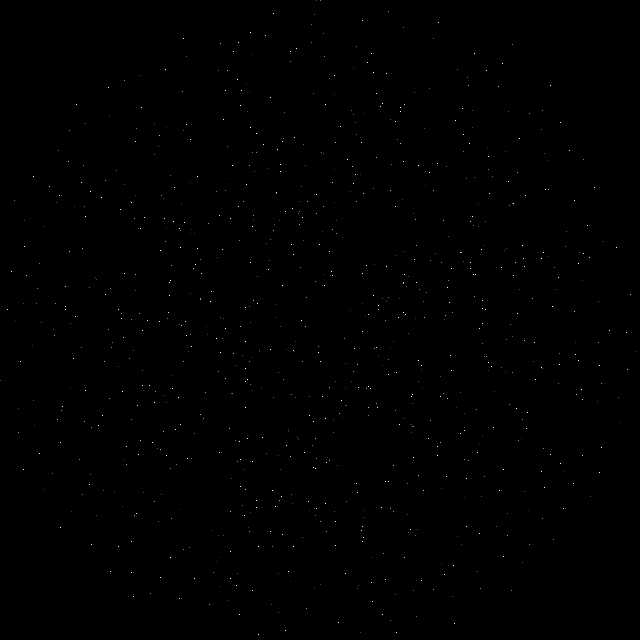
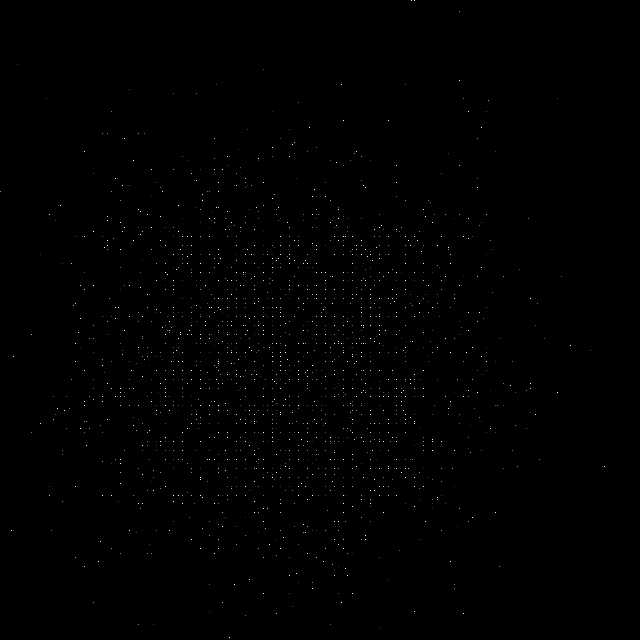
0085 - /Users/whittemore/.nvm/versions/node/v4.2.2/bin/node /index.js

diff --git a/sketches/0085/index.js b/sketches/0085/index.js
@@ -19,7 +19,7 @@ co(function*(){
 
 	var theGraph = ngraph();
 
-	var BLOCK_SIZE = 5;
+	var BLOCK_SIZE = 2;
 
 	console.log('adding images to graph');
 	var count = 0;
@@ -85,10 +85,10 @@ co(function*(){
 
 	console.log('doing some physics');
 	var layout = forcelayout(theGraph);
-	for (var frame = 0; frame < 5; frame++) {
-		console.log('frame', frame, 'of', 5);
-		layout.step();
-	}
+	// for (var frame = 0; frame < 5; frame++) {
+	// 	console.log('frame', frame, 'of', 5);
+	// 	layout.step();
+	// }
 
 
 	console.log('projecting nodes into image size');
